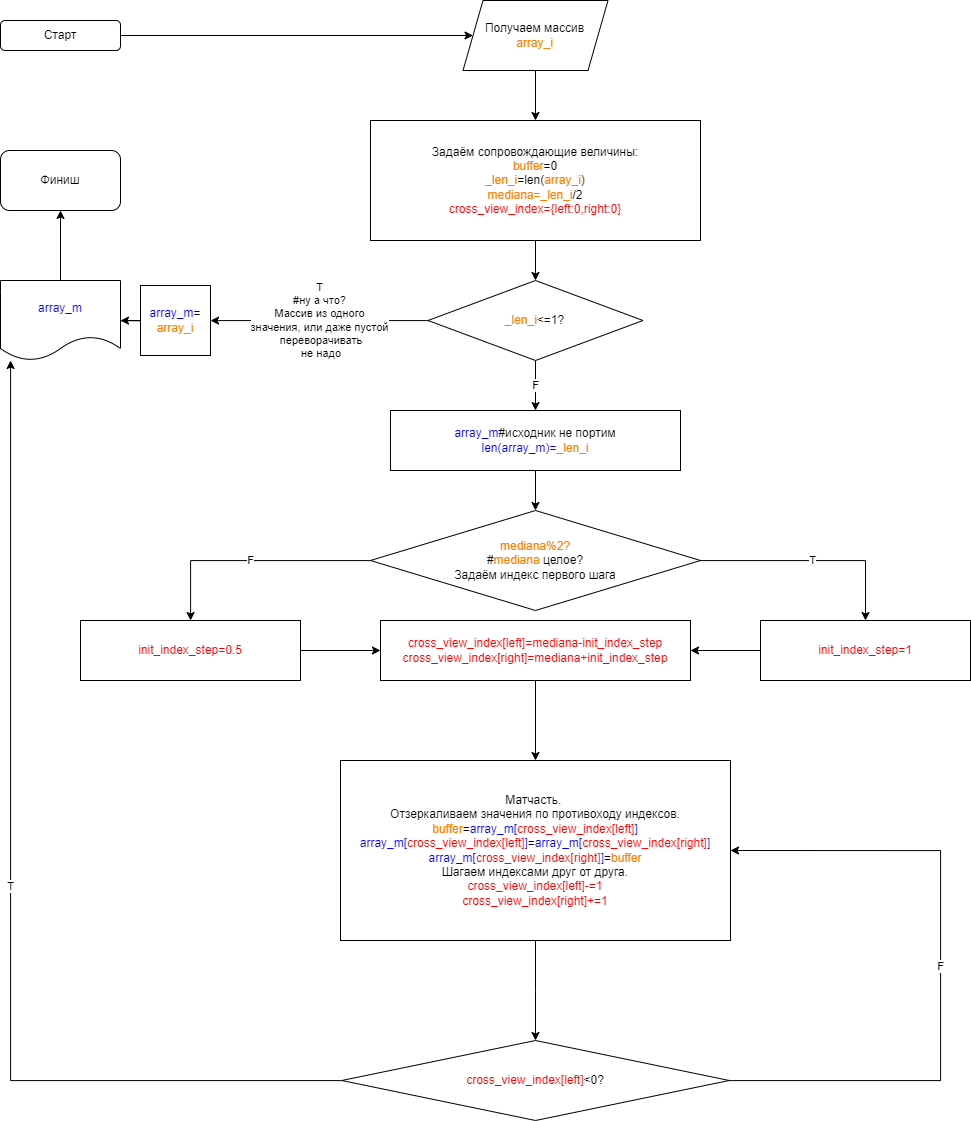
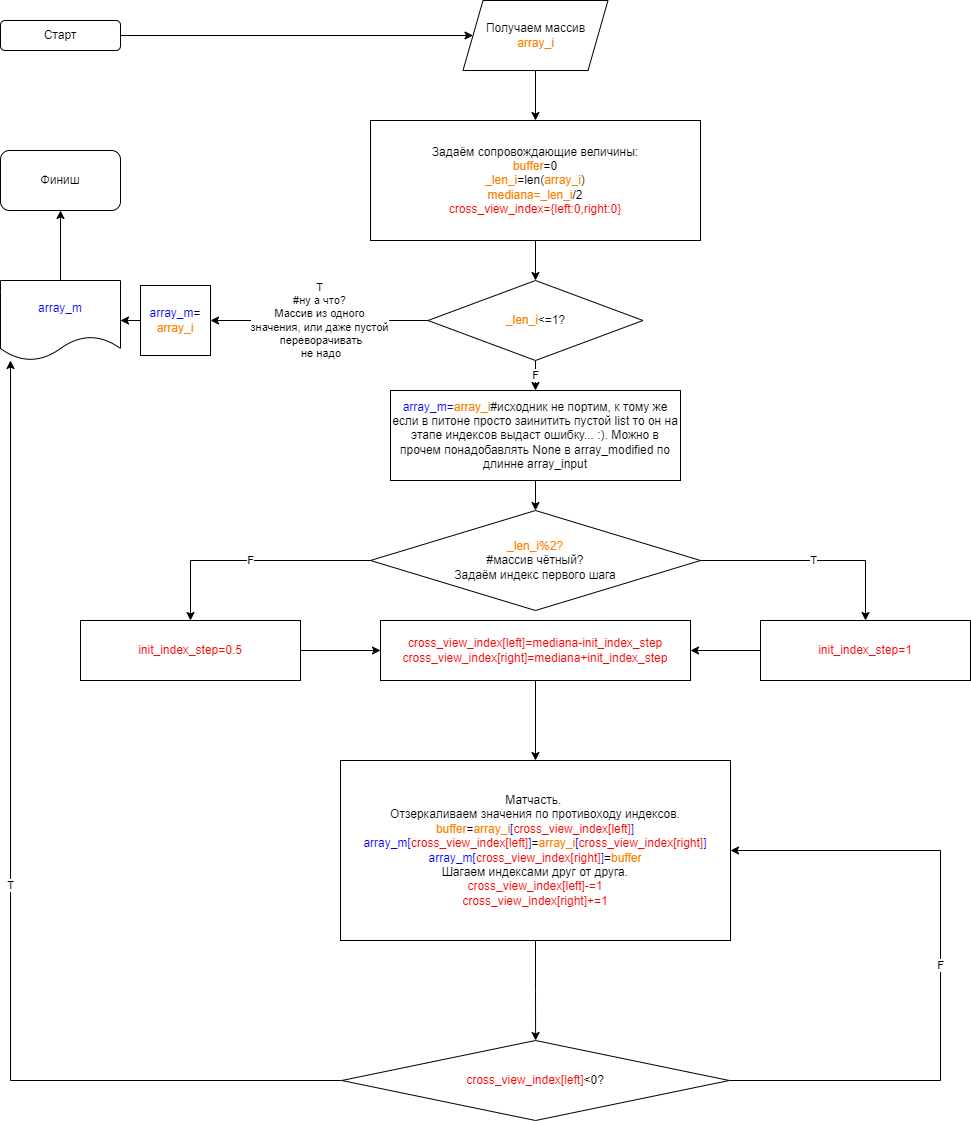
фиксы блок-схемы, код 2ого задания

diff --git a/09-09-22/1/tz#1.py b/09-09-22/1/tz#1.py
@@ -1,0 +1,40 @@
+from enum import Enum,auto
+class Side(Enum):
+    left=auto()
+    right=auto()
+from array_init import Semi_array
+
+def turn_array(array_i:list):
+    array_m=[]
+    for i in array_i:
+        array_m.append(None)
+    buffer=0
+    _len_i=len(array_i)
+    mediana=_len_i%2
+    cross_view_index={Side.left:0,Side.right:0}
+    if _len_i<=1:
+        array_m=array_i
+        return array_m
+        pass
+    if mediana:
+        init_index_step=1
+    else:
+        init_index_step=0.5
+        pass
+    cross_view_index[Side.left]=int(_len_i/2-init_index_step)#tyt fiks!
+    cross_view_index[Side.right]=int(_len_i/2+init_index_step)#tyt fiks!
+    while cross_view_index[Side.left]>=0:
+        buffer=array_i[cross_view_index[Side.left]]
+        array_m[cross_view_index[Side.left]]=array_i[cross_view_index[Side.right]]
+        array_m[cross_view_index[Side.right]]=buffer
+        cross_view_index[Side.left]-=1
+        cross_view_index[Side.right]+=1
+    return array_m
+
+def main():
+    _init=Semi_array(size=10,limit=100,unique=True)
+    mirrored_init=turn_array(_init.get_instance())
+    print(f'main:       {str(_init.get_instance())}')
+    print(f'mirrored     {str(mirrored_init)}')
+if __name__=='__main__':
+    main()
